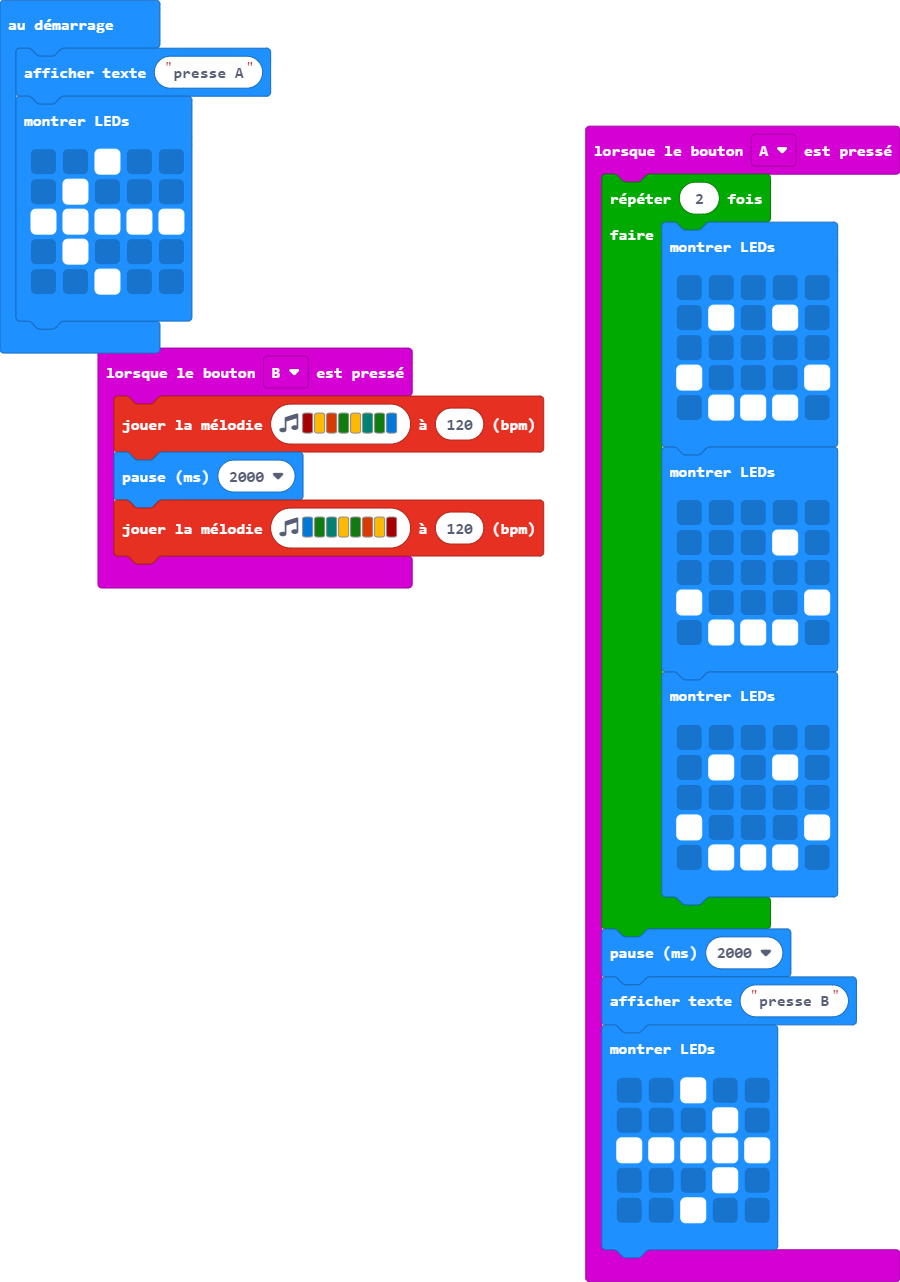
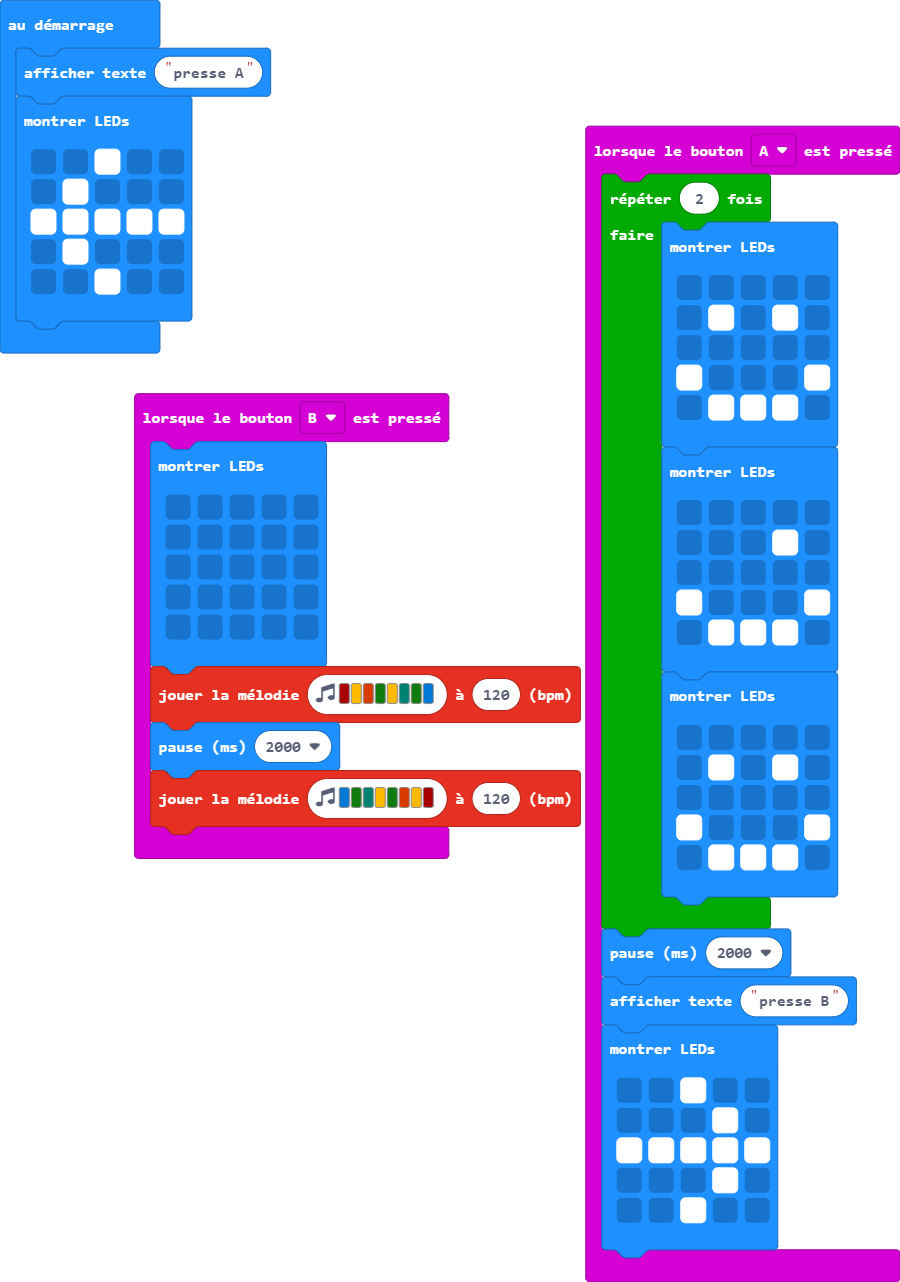
Mise à jour main.blocks, main.ts

Changed region(s): [[0.0933, 0.2496, 0.6533, 0.6864]]

diff --git a/main.ts b/main.ts
@@ -33,6 +33,13 @@ input.onButtonPressed(Button.A, function () {
         `)
 })
 input.onButtonPressed(Button.B, function () {
+    basic.showLeds(`
+        . . . . .
+        . . . . .
+        . . . . .
+        . . . . .
+        . . . . .
+        `)
     music.playMelody("C5 A B G A F G E ", 120)
     basic.pause(2000)
     music.playMelody("E G F A G B A C5 ", 120)
